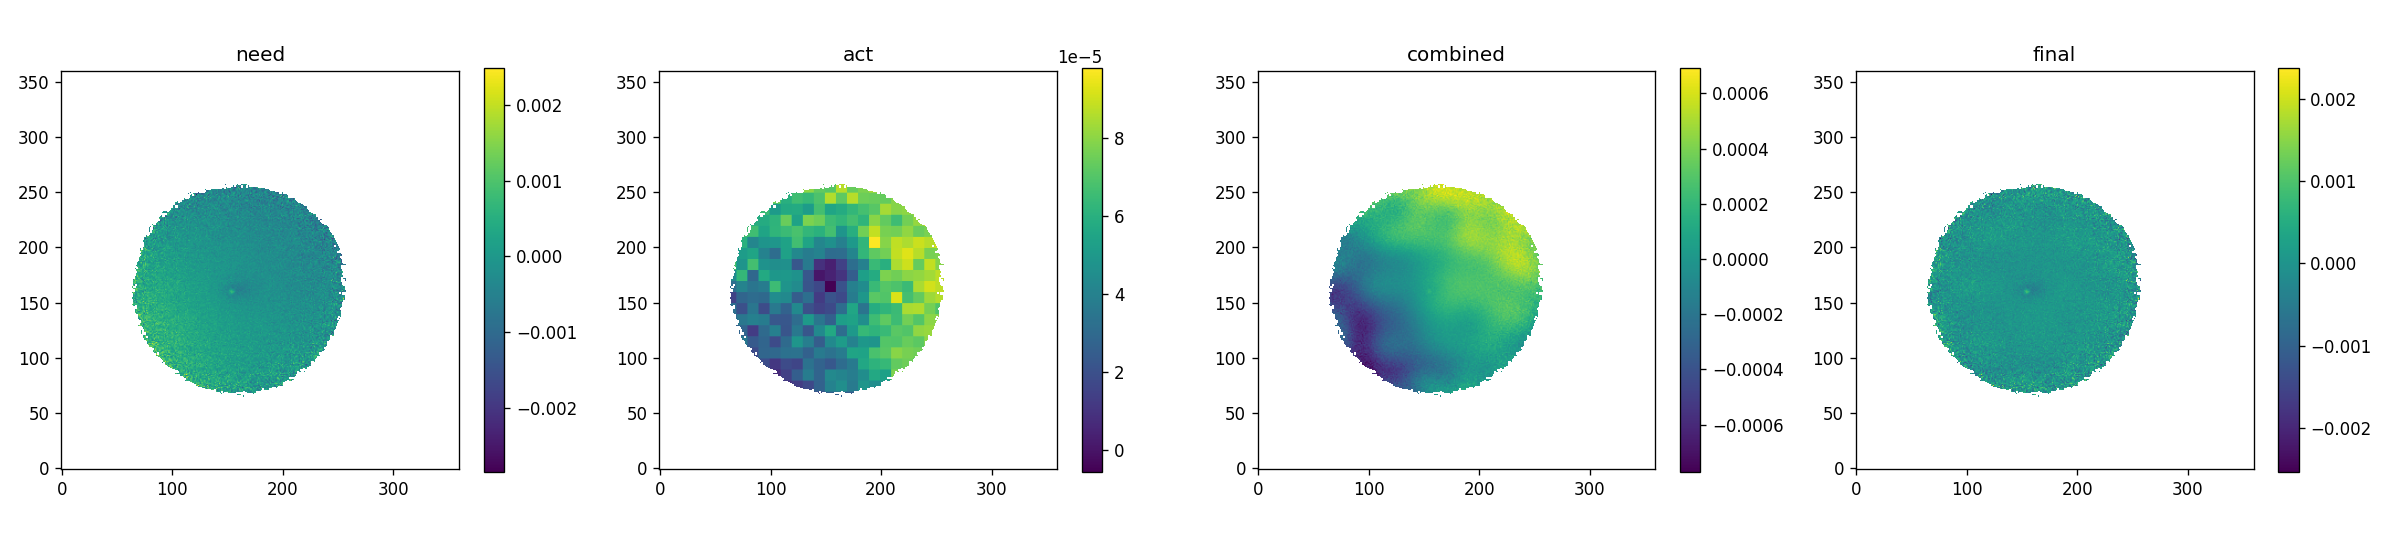
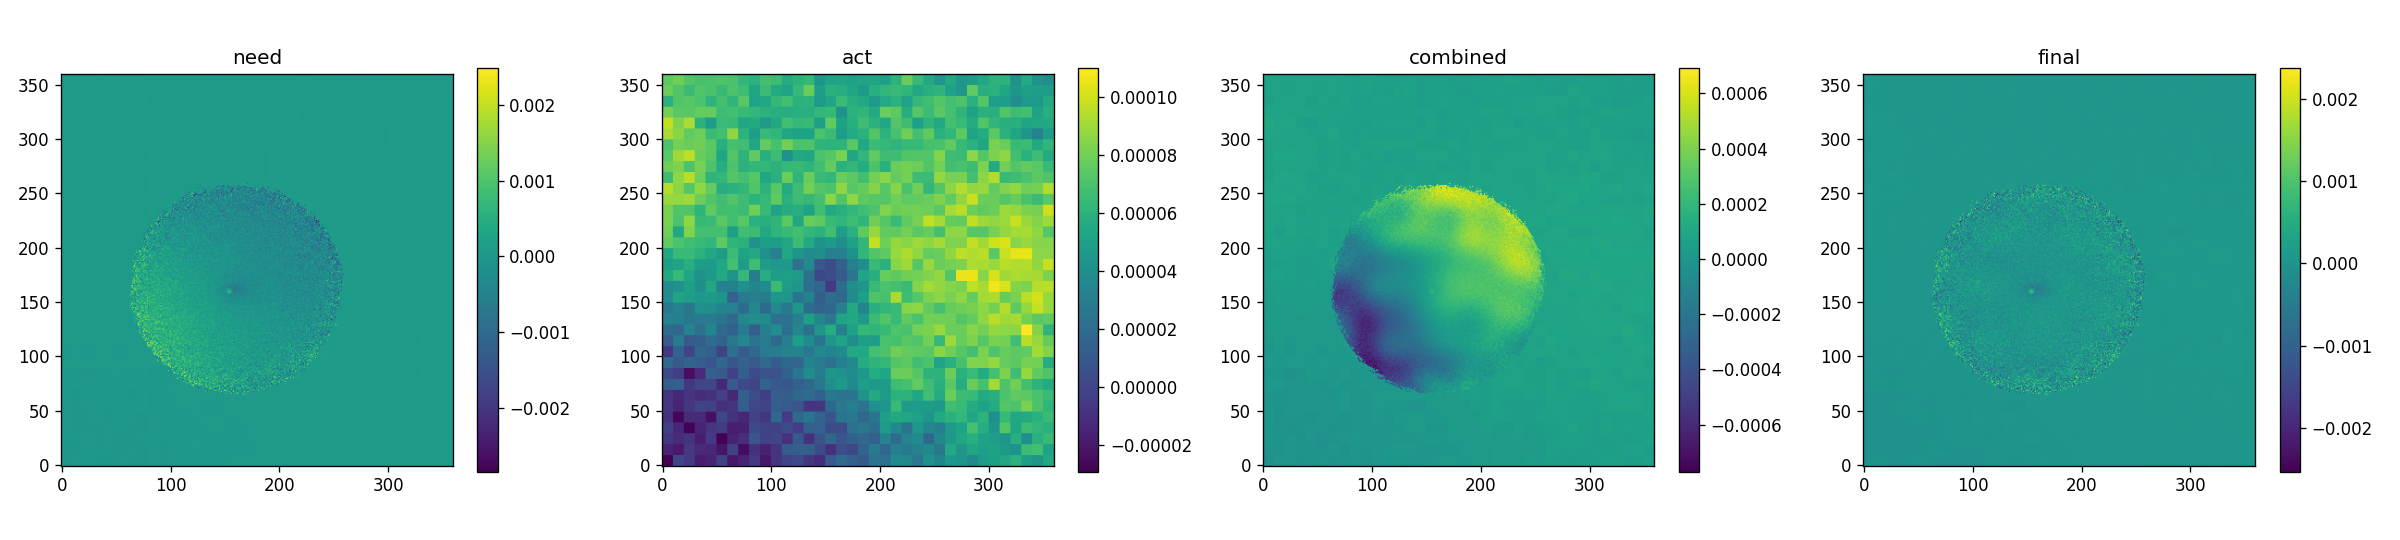
Fill masked pixels with ACT in map plots

diff --git a/reports/needlet.html b/reports/needlet.html
@@ -24,7 +24,7 @@
 
 <h2>Combined map (MOOJ1142, 20 TODs)</h2>
 <img src="figs/maps.png" alt="maps">
-<p>PCG (M2 only, all scales, 50 iterations), ACT only (inverse variance weighted coadd of the splits), the combined correction (M2 ANA solved for all bands down to the 5&Prime; scale, bands 0&ndash;8; ACT only in bands 0&ndash;3) and final = PCG + combined. Units are Jy/beam, the units of the M2 TODs. The final map is padded by 25% of the data extent on each side. The panels are not smoothed; pixels with fewer than 20 hits are masked.</p>
+<p>PCG (M2 only, all scales, 50 iterations), ACT only (inverse variance weighted coadd of the splits), the combined correction (M2 ANA solved for all bands down to the 5&Prime; scale, bands 0&ndash;8; ACT only in bands 0&ndash;3) and final = PCG + combined. Units are Jy/beam, the units of the M2 TODs. The final map is padded by 25% of the data extent on each side. The panels are not smoothed; pixels with fewer than 20 hits are filled with the ACT map (plotting only).</p>
 <p>With 20 TODs the final map has a central rms (smoothed 6 px) of 5.3&times;10<sup>-5</sup> against 2.3&times;10<sup>-4</sup> for PCG alone, and, smoothed to the ACT beam, correlates with ACT at 0.91 inside the footprint (PCG alone: &minus;0.61). The large-scale artifact of the PCG map (a &plusmn;0.5 mJy gradient from the poorly constrained large-scale modes) is removed by the combined solve. With only 2 TODs M2 is too noisy for the cold spot to show above the PCG noise (about 1 mJy per pixel).</p>
 
 <h3>Solving down to 5&Prime;</h3>

diff --git a/examples/needlet_benchmark.py b/examples/needlet_benchmark.py
@@ -29,20 +29,23 @@ def plot_maps(files, out, smooth=None, hits=None, min_hits=20):
     smooth : dict | None
         Gaussian smoothing (pixels) by file name suffix, e.g. {"need": 8}. Default is no smoothing.
     hits : str | None
-        FITS hits map; pixels with fewer than min_hits hits are masked (shown blank).
+        FITS hits map; pixels with fewer than min_hits hits are masked. They are filled with the
+        ACT map (the file ending in _act.fits) when it is among files, else shown blank.
     min_hits : float, default: 20
         Hits threshold of the mask.
     """
     smooth = {} if smooth is None else smooth
     bad = None if hits is None else fits.getdata(hits).squeeze() < min_hits
+    act = next((f for f in files if f.endswith("_act.fits")), None)
+    act = None if act is None else fits.getdata(act).squeeze().astype(float)
     fig, axs = plt.subplots(1, len(files), figsize=(5 * len(files), 4.5), squeeze=False)
     for ax, f in zip(axs[0], files):
         name = os.path.basename(f).rsplit("_", 1)[-1][:-5]
         sig = smooth.get(name, 0)
         dat = fits.getdata(f).squeeze().astype(float)
         dat = gaussian_filter(dat, sig) if sig else dat
-        if bad is not None:
-            dat[bad] = np.nan
+        if bad is not None and name != "act":
+            dat[bad] = np.nan if act is None else act[bad]
         im = ax.imshow(dat, origin="lower")
         ax.set_title(name + (f" (smoothed {sig} px)" if sig else ""))
         plt.colorbar(im, ax=ax, shrink=0.8)
